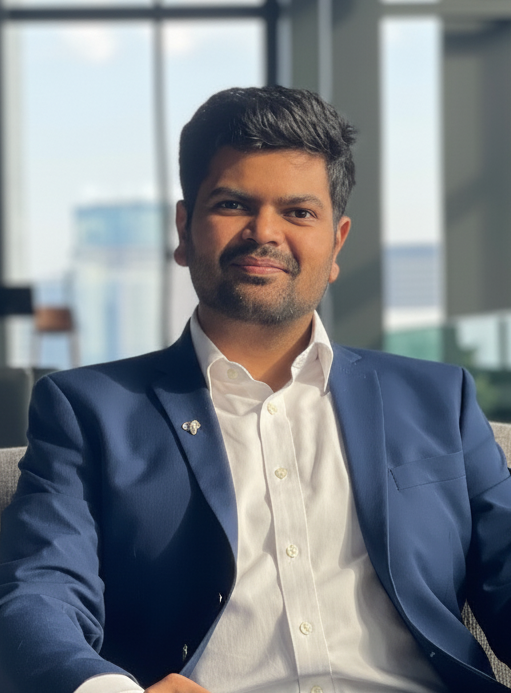
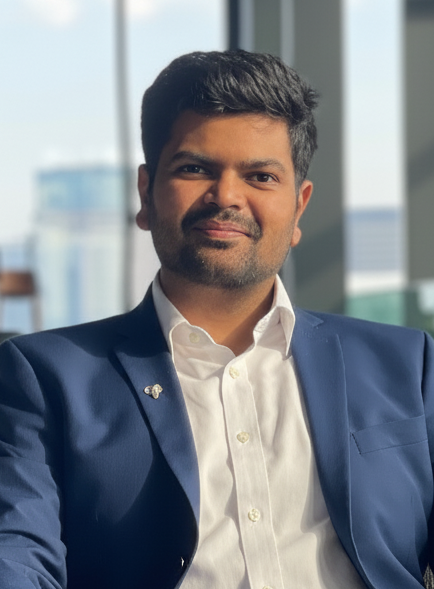
Homepage: switch to cropped colour photo

diff --git a/index.html b/index.html
@@ -23,7 +23,7 @@
     </h1>
 
     <div class="left">
-      <img src="webpage_files/bw-image.png" alt="Aalok Thakkar" />
+      <img src="webpage_files/colour-image.png" alt="Aalok Thakkar" />
         <p style="text-align: center;">
           thakkar @ ashoka.edu.in
         </p>
